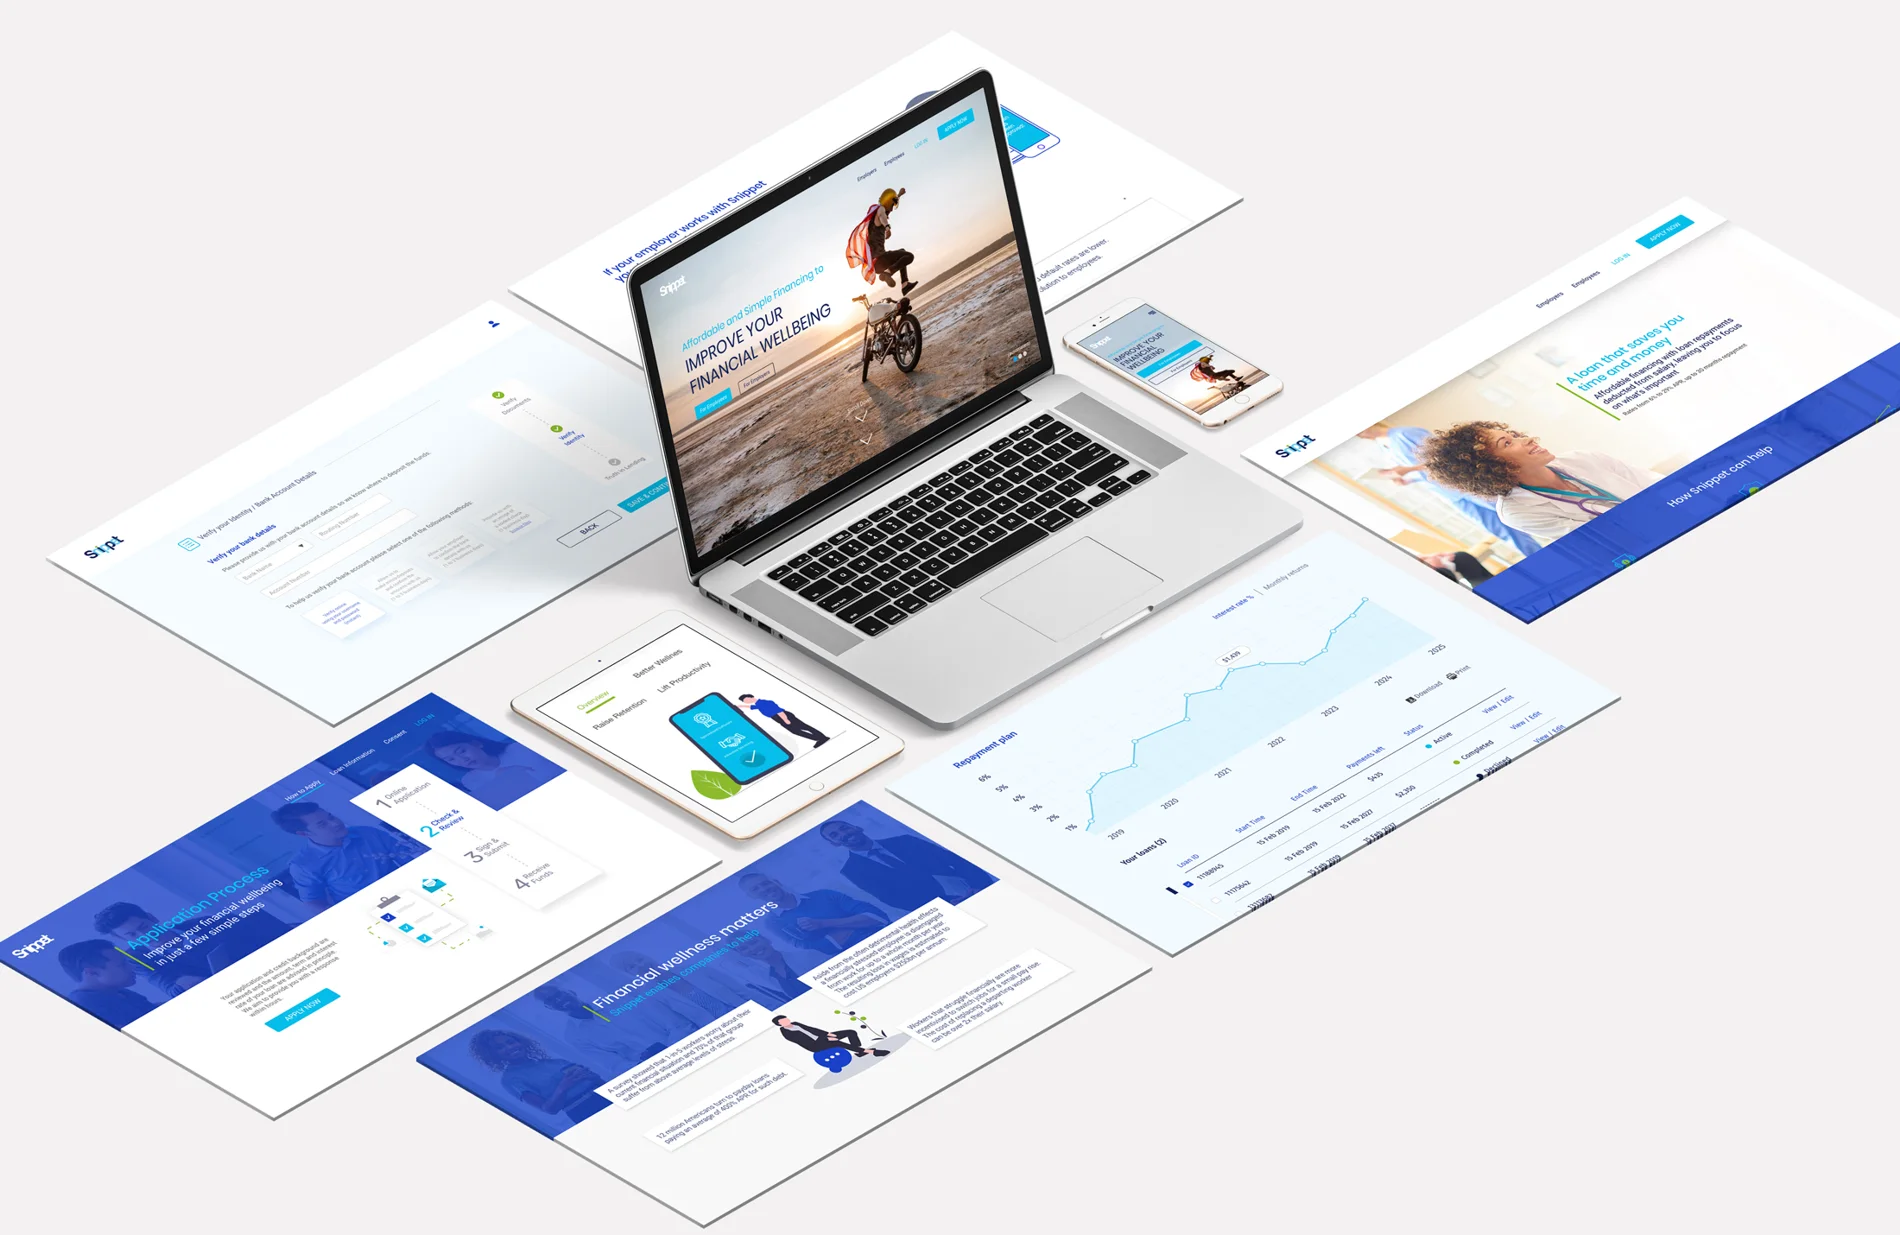
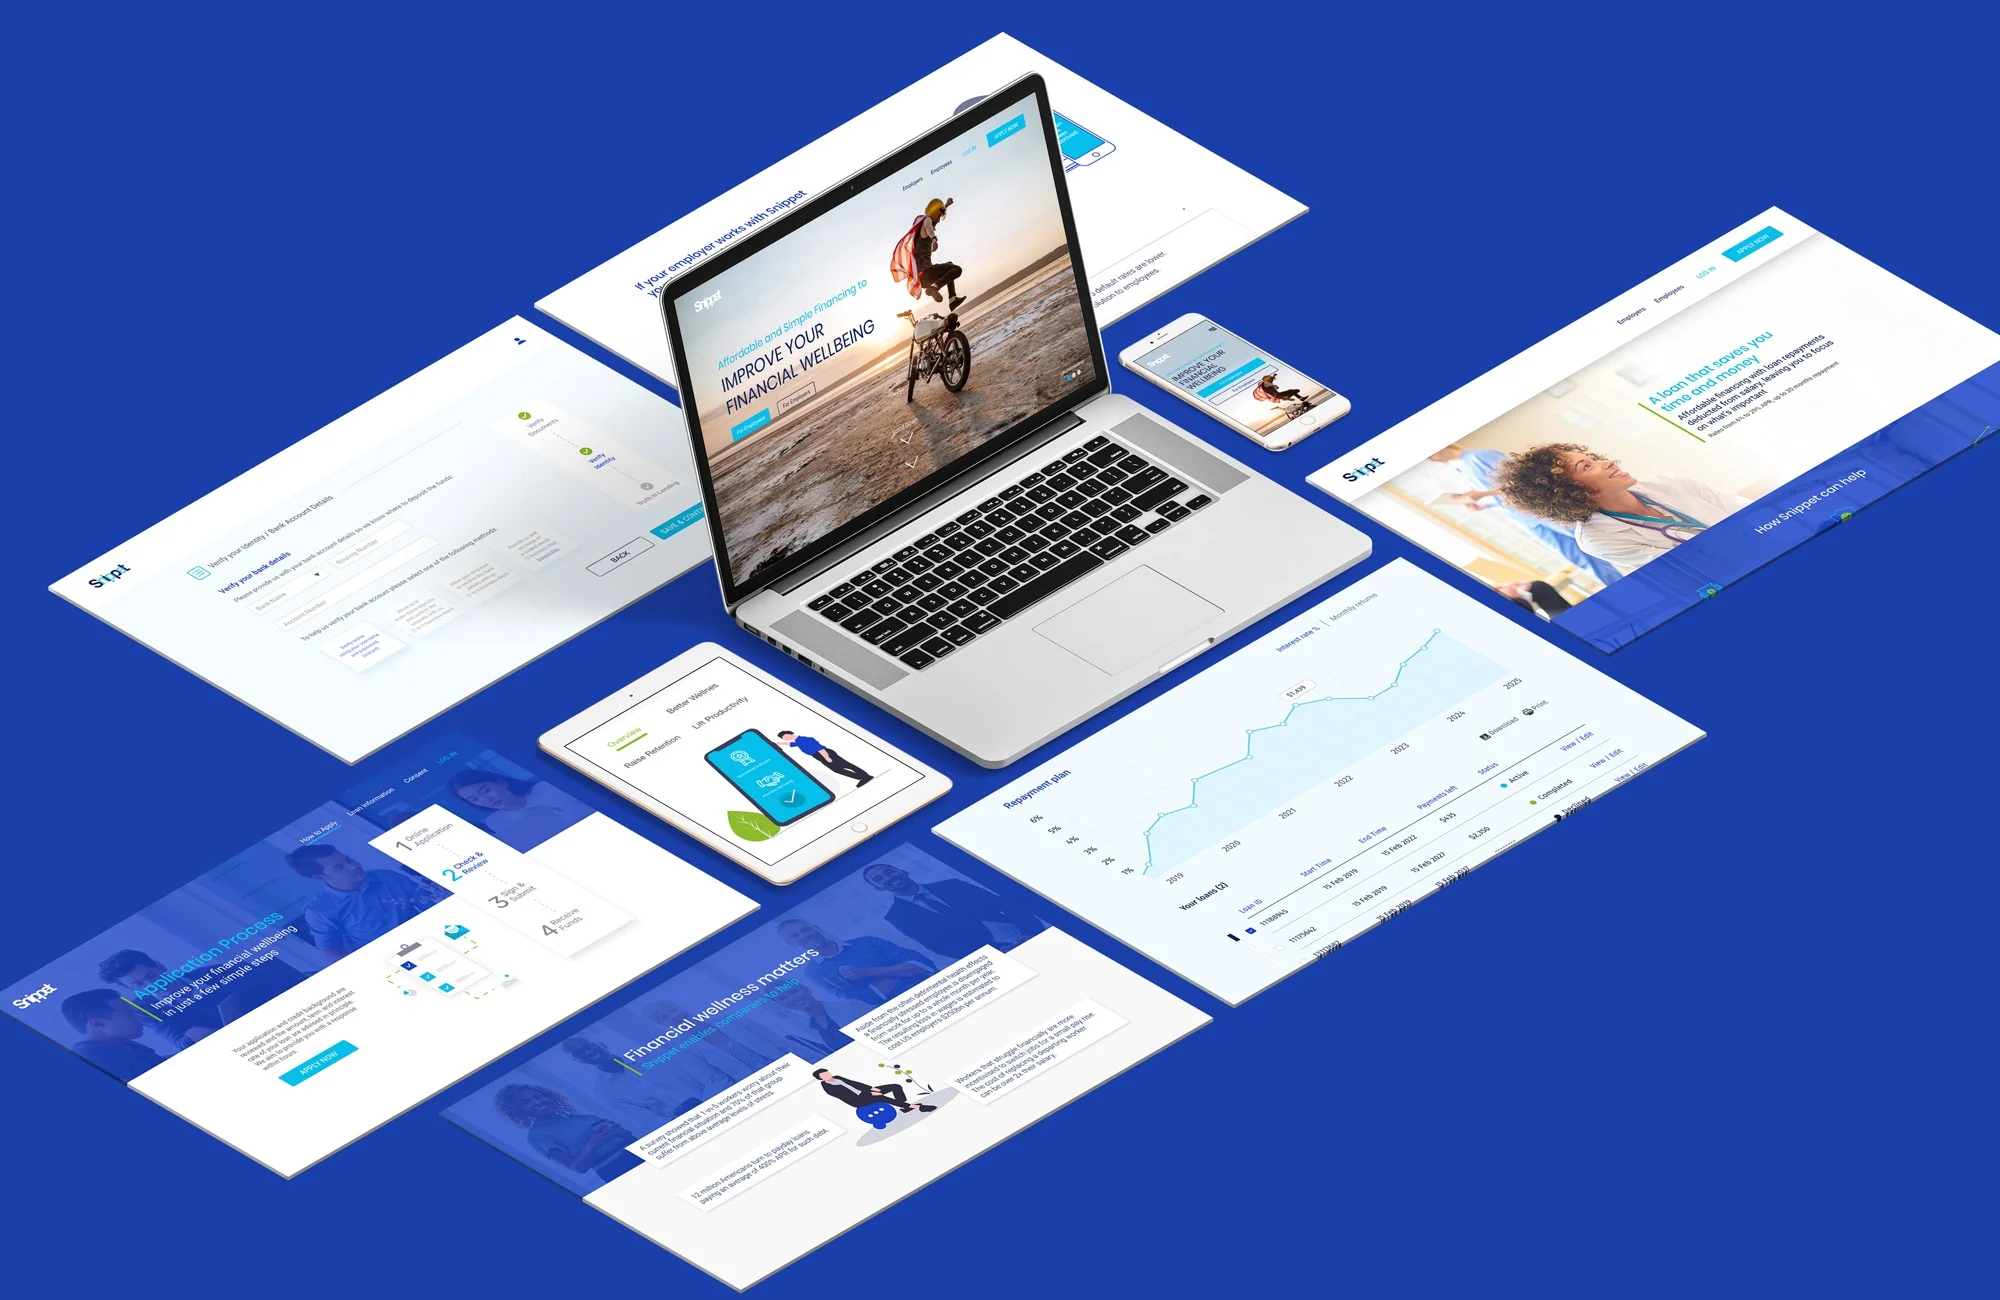
Snippet: add application screens, region entry and hi-res system overview

diff --git a/snippet/index.html b/snippet/index.html
@@ -75,6 +75,18 @@ section { padding-block: clamp(56px, 8vw, 112px); }
 .cap { font: 500 .74rem/1.5 var(--f-mono); letter-spacing: .04em; color: var(--soft); margin-top: 14px; }
 .head { display: flex; flex-direction: column; gap: 18px; max-width: 760px; margin-bottom: clamp(28px, 4vw, 52px); }
 
+/* application screens */
+.duo { display: grid; grid-template-columns: minmax(0, 1.55fr) minmax(0, .45fr); gap: clamp(18px, 3vw, 40px); align-items: center; }
+.browser { margin: 0; border-radius: 18px; overflow: hidden; background: #fff; box-shadow: 0 60px 90px -50px rgb(38 44 106 / .5), 0 0 0 1px var(--line); }
+.browser .bar { display: flex; gap: 7px; padding: 12px 16px; background: #EEF2F8; }
+.browser .bar i { width: 10px; height: 10px; border-radius: 50%; background: #CBD5E5; display: block; }
+.browser img { width: 100%; cursor: zoom-in; }
+.phone { margin: 0; border-radius: 34px; padding: 10px; background: var(--deep); box-shadow: 0 50px 80px -40px rgb(20 26 74 / .6); justify-self: center; width: 100%; max-width: 320px; }
+.phone img { width: 100%; border-radius: 25px; background: #fff; cursor: zoom-in; }
+.pair { display: grid; grid-template-columns: minmax(0, .5fr) minmax(0, 1fr); gap: clamp(16px, 3vw, 36px); align-items: center; }
+.photo img { height: 100%; object-fit: cover; }
+@media (max-width: 860px) { .duo, .pair { grid-template-columns: minmax(0, 1fr); } .phone { max-width: 280px; } }
+
 /* walkthrough */
 .video { position: relative; aspect-ratio: 16 / 9; border-radius: var(--radius); overflow: hidden; background: #191919; box-shadow: 0 60px 90px -50px rgb(20 26 74 / .7); }
 .video iframe { position: absolute; inset: 0; width: 100%; height: 100%; border: 0; }
@@ -217,22 +229,45 @@ html.mk-lock, html.mk-lock body { overflow: hidden; }
         <h2>One site, one platform, every screen.</h2>
         <p class="soft">The marketing pages, the employee journey and the application flow share one clean visual language, from the laptop down to the phone.</p>
       </div>
-      <figure class="frame rv"><img src="assets/system.webp" alt="Isometric overview of the Snippet screens: a laptop with the website hero, an employee dashboard with a chart, a tablet and a phone with the loan app, and several blue and white landing pages." width="1900" height="1235" loading="lazy" data-zoom></figure>
+      <figure class="frame rv"><img src="assets/system.webp" alt="Isometric overview of the Snippet screens: a laptop with the website hero, an employee dashboard with a chart, a tablet and a phone with the loan app, and several blue and white landing pages." width="2000" height="1300" loading="lazy" data-zoom></figure>
     </div>
   </section>
 
-  <section id="mobile">
+  <section id="application">
+    <div class="wrap">
+      <div class="head rv">
+        <span class="label">The application</span>
+        <h2>How much would you like to borrow?</h2>
+        <p class="soft">The application is a short, guided flow of four steps. Each screen asks one thing, shows progress at the top and keeps the amount, the term and the next action in view, on a laptop or on a phone.</p>
+      </div>
+      <div class="duo rv">
+        <figure class="browser">
+          <div class="bar"><i></i><i></i><i></i></div>
+          <img src="assets/desktop-terms.webp" alt="Snippet loan application on desktop, step one, Loan terms: a borrowing amount slider set to 1,400 dollars, a term slider set to 16 months, a loan purpose dropdown, a credit score dropdown and Back and Continue buttons." width="1366" height="1193" loading="lazy" data-zoom>
+        </figure>
+        <figure class="phone">
+          <img src="assets/mobile-terms.webp" alt="The same Loan terms step on mobile, with a four-step progress bar at the top and the same sliders and dropdowns stacked in one column." width="360" height="1109" loading="lazy" data-zoom>
+        </figure>
+      </div>
+      <p class="cap rv">Step 1 of 4, Loan info, on desktop and mobile.</p>
+    </div>
+  </section>
+
+  <section id="regions" class="mist">
     <div class="wrap two">
       <div class="stack rv">
-        <span class="label">Loan terms on mobile</span>
-        <h2>How much would you like to borrow?</h2>
-        <p class="soft">The application is a short, guided flow. Each step asks one thing, shows progress at the top and keeps the amount, the loan terms and the next action in view, even on a small screen.</p>
+        <span class="label">Two regions</span>
+        <h2>One entry, two sites.</h2>
+        <p class="soft">The first screen explains the idea in a few lines, then lets visitors pick their region, the US site or the Japanese one, so the same product speaks both languages.</p>
       </div>
-      <figure class="frame rv"><img src="assets/tablet.webp" alt="A tablet resting by a swimming pool, showing the Snippet loan terms step with a borrowing amount slider set to 1,400 dollars." width="1600" height="1066" loading="lazy" data-zoom></figure>
+      <div class="pair rv">
+        <figure class="phone"><img src="assets/mobile-region.webp" alt="Snippet mobile entry screen: the headline Helping People to Raise their Financial Wellbeing, a short description, US Site and JP Site buttons and a photo of people playing tug of war." width="360" height="640" loading="lazy" data-zoom></figure>
+        <figure class="frame photo"><img src="assets/tablet.webp" alt="A tablet resting by a swimming pool, showing the Snippet loan terms step with a borrowing amount slider." width="1600" height="1066" loading="lazy" data-zoom></figure>
+      </div>
     </div>
   </section>
 
-  <section id="walkthrough" class="mist">
+  <section id="walkthrough">
     <div class="wrap">
       <div class="head rv">
         <span class="label">Walkthrough</span>
